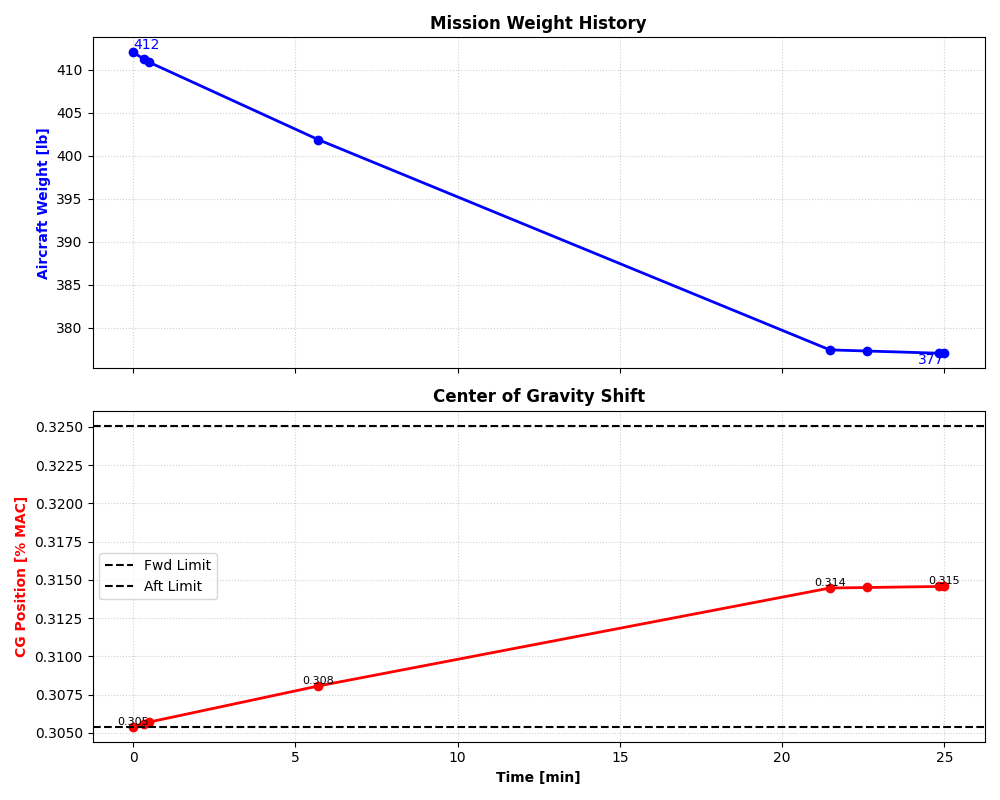
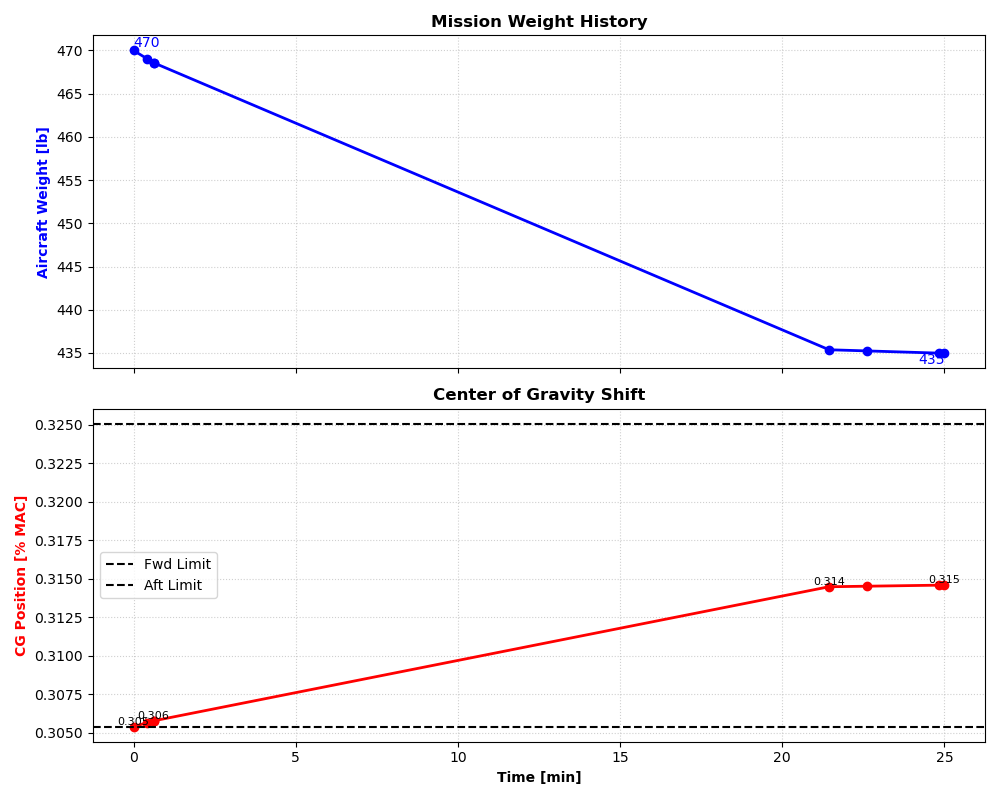
changement ratios décollage

diff --git a/Aircraft_data.py b/Aircraft_data.py
@@ -300,7 +300,7 @@ def get_default_inputs() -> tuple[FlightConditions, AircraftGeometry, AeroParams
         cl_max_30 = 1.98,
 
         # ---- masses ----
-        OEW       = 160,
+        OEW       = 218,
         FUEL_LOAD = 75.0,
         RESERVE   = 7.0,
         PAYLOAD   = 170,   # tu pourras changer ça plus tard

diff --git a/take_off_run.py b/take_off_run.py
@@ -27,8 +27,8 @@ def v_lof_v_r(h_ft,dT_isa,weight,CL_max,sref):
     
     Vs_ft_s = np.sqrt(2*weight/(rho*sref*CL_max))
     
-    v_r = 1.45*Vs_ft_s
-    v_lof = 1.55*Vs_ft_s
+    v_r = 1.55*Vs_ft_s
+    v_lof = 1.65*Vs_ft_s
 
     return v_r, v_lof
     
